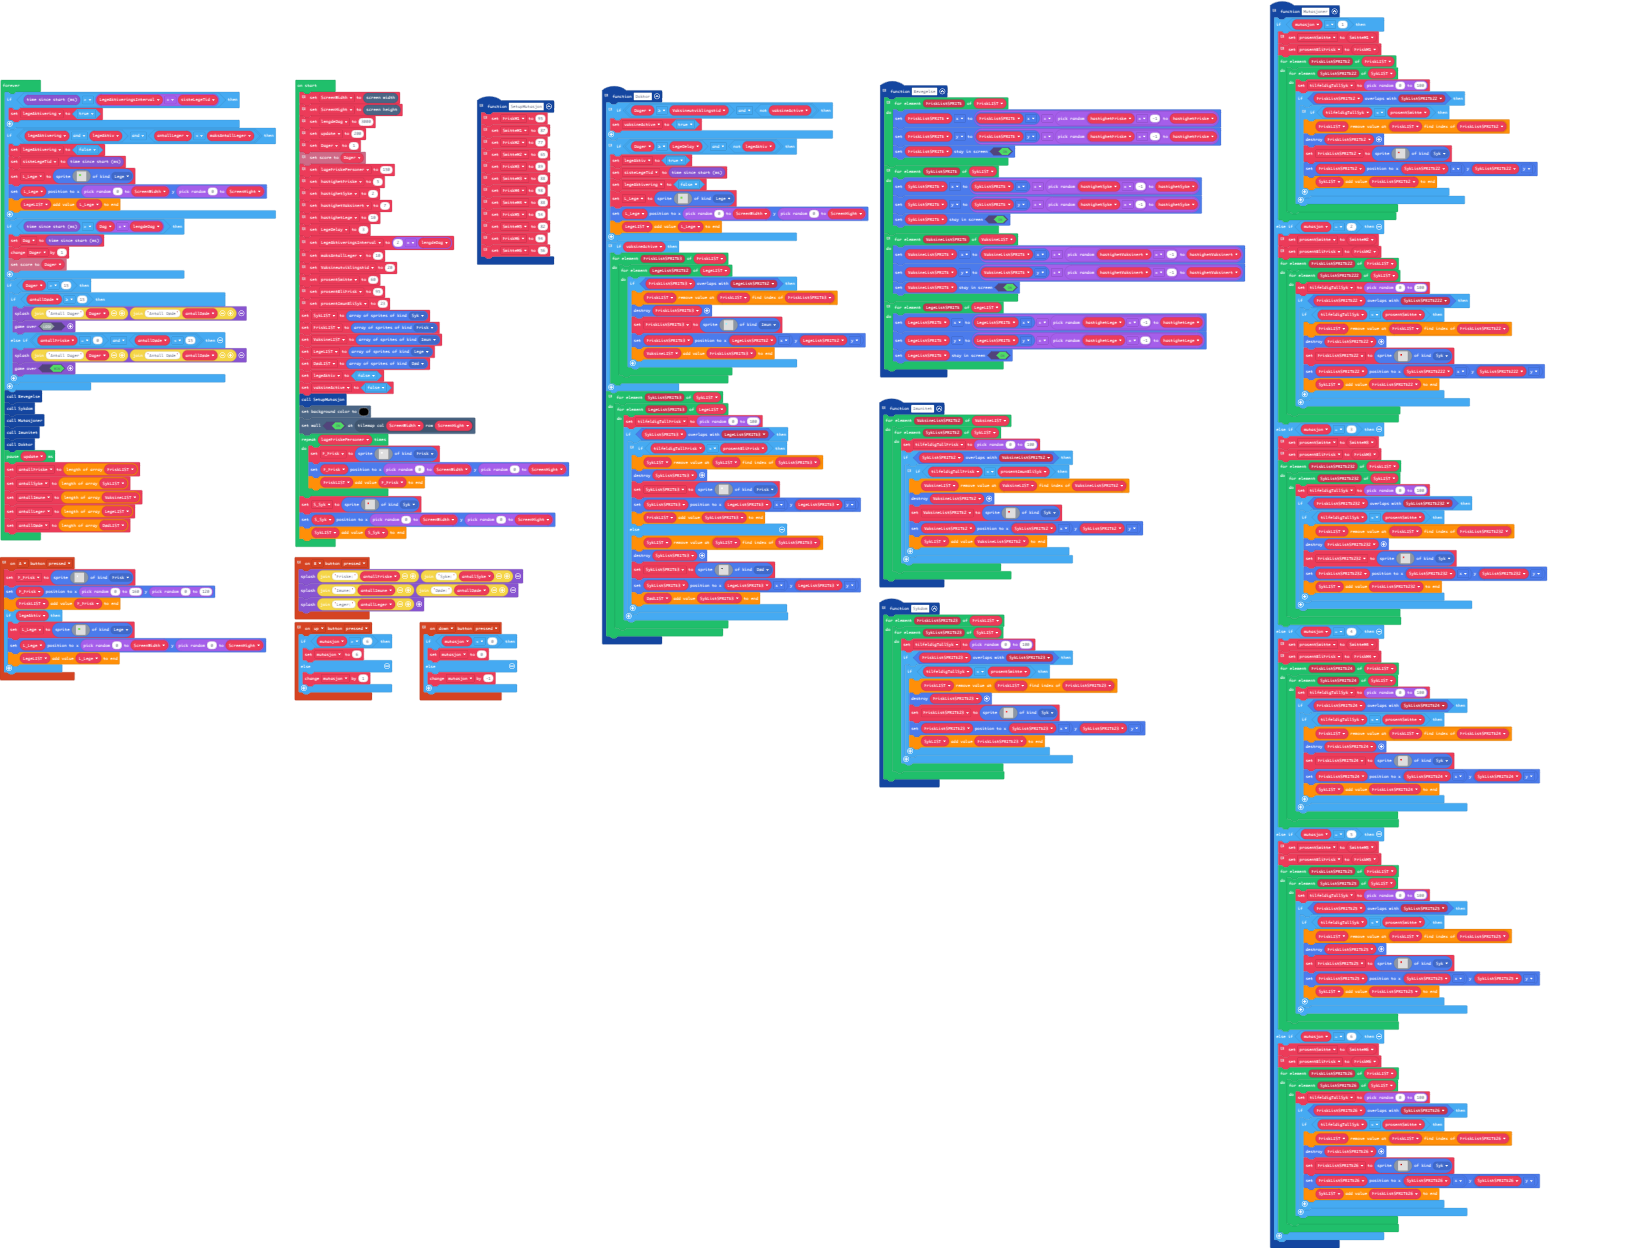
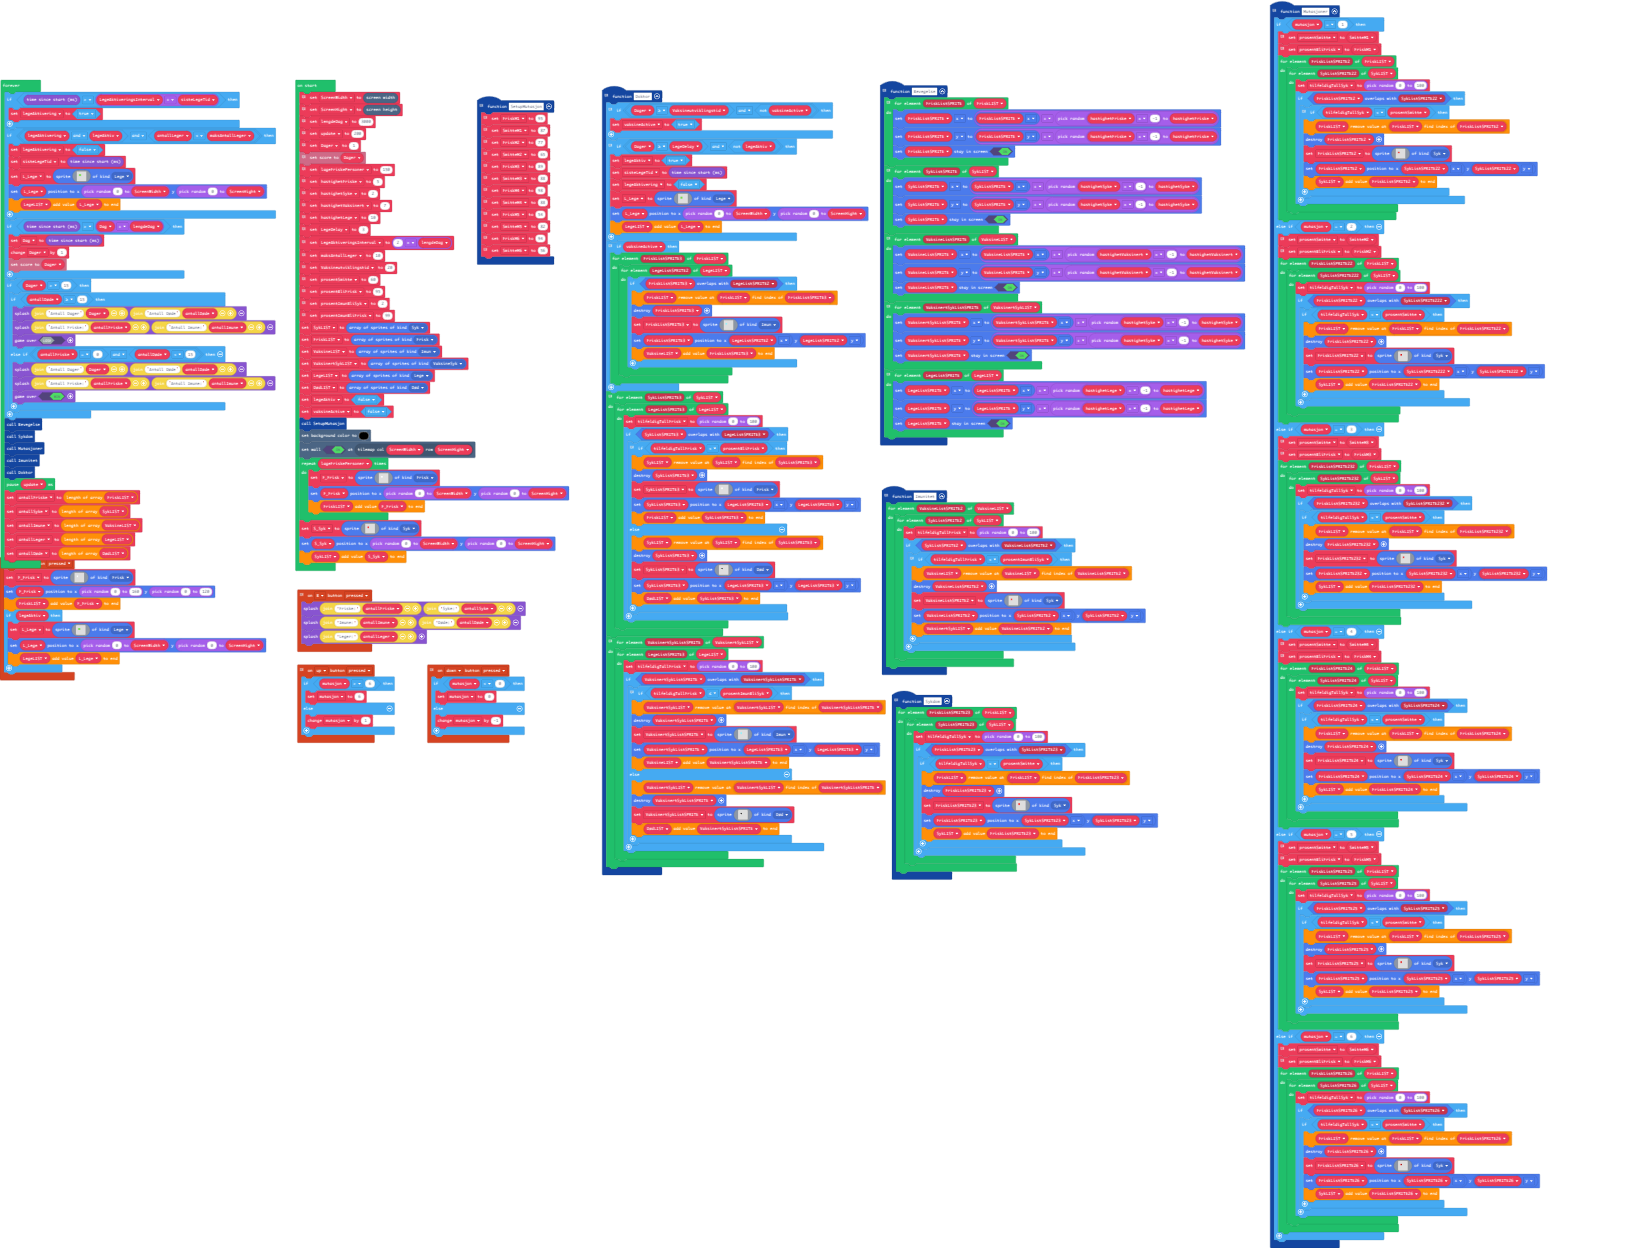
Update main.blocks, main.ts

Changed region(s): [[0.3692, 0.2188, 0.7692, 0.7188], [0.0, 0.25, 0.3692, 0.5938]]

diff --git a/main.ts b/main.ts
@@ -5,6 +5,7 @@ namespace SpriteKind {
     export const Lege = SpriteKind.create()
     export const Vaksinator = SpriteKind.create()
     export const Død = SpriteKind.create()
+    export const VaksineSyk = SpriteKind.create()
 }
 // Bestemme bevegelsene til de forskjellige spritene
 function Bevegelse () {
@@ -25,6 +26,12 @@ function Bevegelse () {
         VaksineListSPRITE.x = VaksineListSPRITE.x + randint(hastighetVaksinert * -1, hastighetVaksinert)
         VaksineListSPRITE.y = VaksineListSPRITE.y + randint(hastighetVaksinert * -1, hastighetVaksinert)
         VaksineListSPRITE.setStayInScreen(true)
+    }
+    // Sette opp bevegelsene til syk og vaksinert sprites
+    for (let VaksinertSykListSPRITE of VaksinertSykLIST) {
+        VaksinertSykListSPRITE.x = VaksinertSykListSPRITE.x + randint(hastighetSyke * -1, hastighetSyke)
+        VaksinertSykListSPRITE.y = VaksinertSykListSPRITE.y + randint(hastighetSyke * -1, hastighetSyke)
+        VaksinertSykListSPRITE.setStayInScreen(true)
     }
     // Sette opp bevegelsene til lege sprites
     for (let LegeListSPRITE of LegeLIST) {
@@ -110,7 +117,7 @@ function Imunitet () {
                         . . . . . . . . . . . . . . . . 
                         `, SpriteKind.Syk)
                     VaksineListSPRITE2.setPosition(SykListSPRITE2.x, SykListSPRITE2.y)
-                    SykLIST.push(VaksineListSPRITE2)
+                    VaksinertSykLIST.push(VaksineListSPRITE2)
                 }
             }
         }
@@ -503,6 +510,62 @@ function Doktor () {
             }
         }
     }
+    // Funksjon for å helbrede en syk sprite
+    for (let VaksinertSykListSPRITE of VaksinertSykLIST) {
+        for (let LegeListSPRITE3 of LegeLIST) {
+            tilfeldigTallFrisk = randint(0, 100)
+            if (VaksinertSykListSPRITE.overlapsWith(VaksinertSykListSPRITE)) {
+                // Sjekker om pasienten kan bli frisk igjen
+                // Pasienter som ikke blir friske igjen, dør
+                if (tilfeldigTallFrisk <= prosentImunBliSyk) {
+                    VaksinertSykLIST.removeAt(VaksinertSykLIST.indexOf(VaksinertSykListSPRITE))
+                    VaksinertSykListSPRITE.destroy()
+                    VaksinertSykListSPRITE = sprites.create(img`
+                        . . . . . . . . . . . . . . . . 
+                        . . . . . . . . . . . . . . . . 
+                        . . . . . . . . . . . . . . . . 
+                        . . . . . . . . . . . . . . . . 
+                        . . . 9 9 9 . . . . . . . . . . 
+                        . . . 9 9 9 . . . . . . . . . . 
+                        . . . 9 9 9 . . . . . . . . . . 
+                        . . . . . . . . . . . . . . . . 
+                        . . . . . . . . . . . . . . . . 
+                        . . . . . . . . . . . . . . . . 
+                        . . . . . . . . . . . . . . . . 
+                        . . . . . . . . . . . . . . . . 
+                        . . . . . . . . . . . . . . . . 
+                        . . . . . . . . . . . . . . . . 
+                        . . . . . . . . . . . . . . . . 
+                        . . . . . . . . . . . . . . . . 
+                        `, SpriteKind.Imun)
+                    VaksinertSykListSPRITE.setPosition(LegeListSPRITE3.x, LegeListSPRITE3.y)
+                    VaksineLIST.push(VaksinertSykListSPRITE)
+                } else {
+                    VaksinertSykLIST.removeAt(VaksinertSykLIST.indexOf(VaksinertSykListSPRITE))
+                    VaksinertSykListSPRITE.destroy()
+                    VaksinertSykListSPRITE = sprites.create(img`
+                        . . . . . . . . . . . . . . . . 
+                        . . . . . . . . . . . . . . . . 
+                        . . . . . . . . . . . . . . . . 
+                        . . . . . . . . . . . . . . . . 
+                        . . . 1 f 1 . . . . . . . . . . 
+                        . . . f f f . . . . . . . . . . 
+                        . . . 1 f 1 . . . . . . . . . . 
+                        . . . . . . . . . . . . . . . . 
+                        . . . . . . . . . . . . . . . . 
+                        . . . . . . . . . . . . . . . . 
+                        . . . . . . . . . . . . . . . . 
+                        . . . . . . . . . . . . . . . . 
+                        . . . . . . . . . . . . . . . . 
+                        . . . . . . . . . . . . . . . . 
+                        . . . . . . . . . . . . . . . . 
+                        . . . . . . . . . . . . . . . . 
+                        `, SpriteKind.Død)
+                    DødLIST.push(VaksinertSykListSPRITE)
+                }
+            }
+        }
+    }
 }
 let Dag = 0
 let legeAktivering = false
@@ -533,6 +596,7 @@ let vaksineActive = false
 let legeAktiv = false
 let DødLIST: Sprite[] = []
 let LegeLIST: Sprite[] = []
+let VaksinertSykLIST: Sprite[] = []
 let VaksineLIST: Sprite[] = []
 let FriskLIST: Sprite[] = []
 let SykLIST: Sprite[] = []
@@ -583,10 +647,13 @@ prosentSmitte = 60
 // Sannsynlighet for å bli frisk igjen
 prosentBliFrisk = 95
 // Sannsynlighet for å bli syk hvis man er vaksinert
-prosentImunBliSyk = 23
+prosentImunBliSyk = 2
+// Sannsynlighet for å bli frisk igjen hvis man er vaksine
+let prosentImunBliFrisk = 99
 SykLIST = sprites.allOfKind(SpriteKind.Syk)
 FriskLIST = sprites.allOfKind(SpriteKind.Frisk)
 VaksineLIST = sprites.allOfKind(SpriteKind.Imun)
+VaksinertSykLIST = sprites.allOfKind(SpriteKind.VaksineSyk)
 LegeLIST = sprites.allOfKind(SpriteKind.Lege)
 DødLIST = sprites.allOfKind(SpriteKind.Død)
 legeAktiv = false
@@ -655,9 +722,11 @@ forever(function () {
     if (Dager > 15) {
         if (antallDøde >= 15) {
             game.splash("Antall Dager" + Dager, "Antall Døde" + antallDøde)
+            game.splash("Antall Friske:" + antallFriske, "Antall Imune:" + antallImune)
             game.over(false)
         } else if (antallFriske == 0 && antallDøde < 15) {
             game.splash("Antall Dager" + Dager, "Antall Døde" + antallDøde)
+            game.splash("Antall Friske:" + antallFriske, "Antall Imune:" + antallImune)
             game.over(true)
         }
     }
